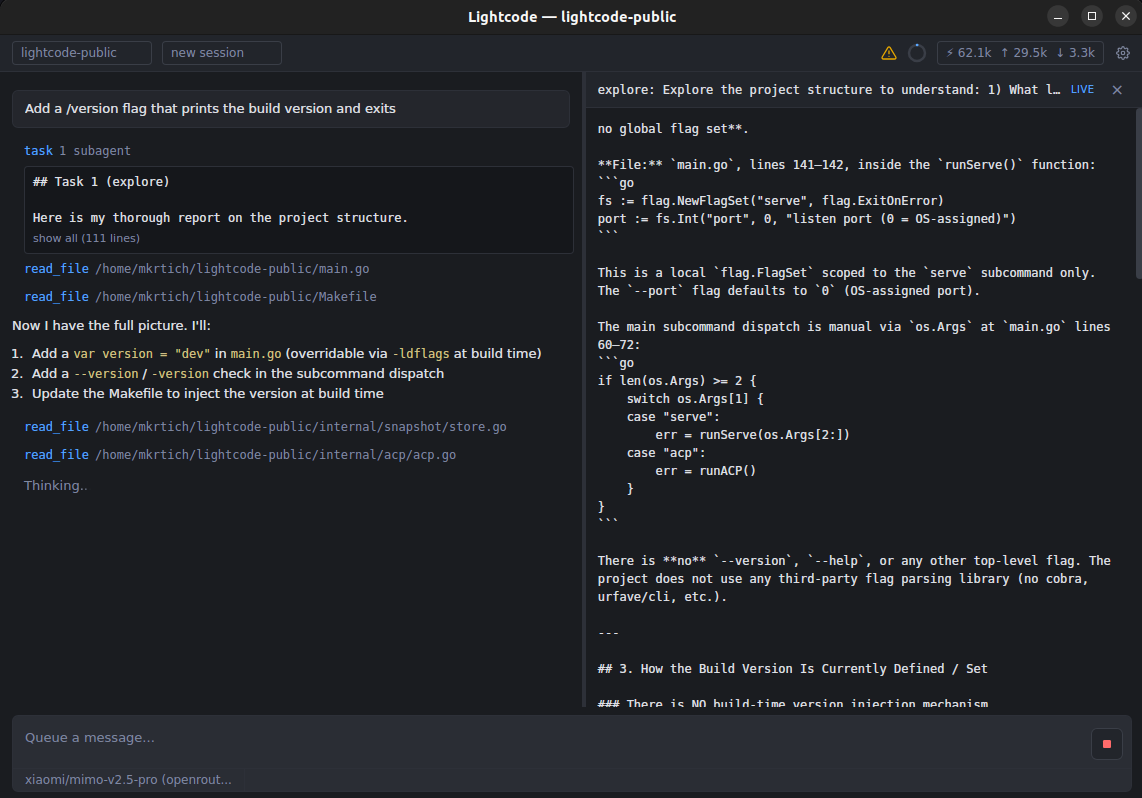
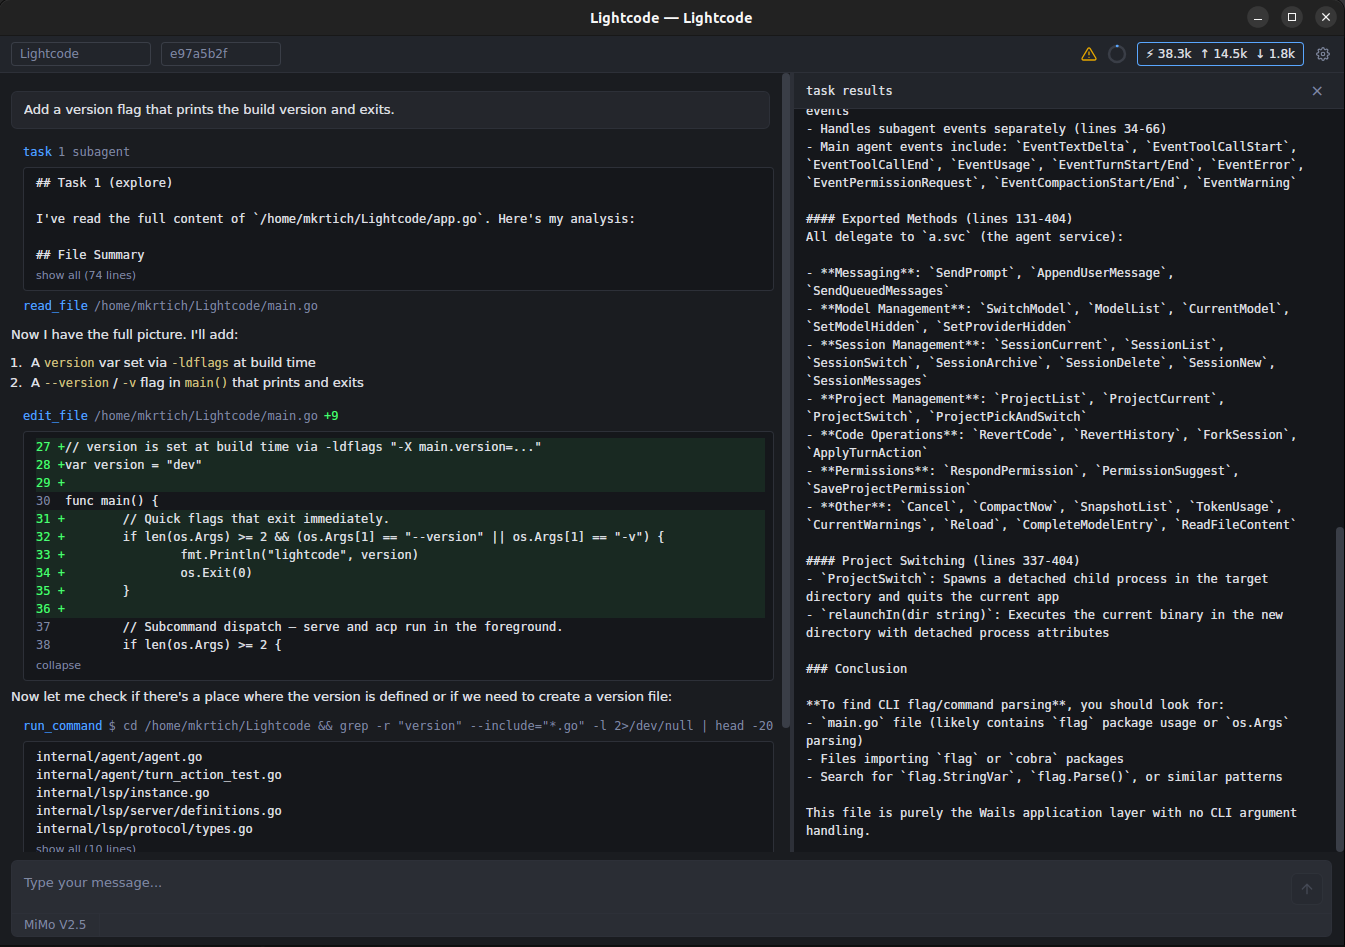
docs: update README and screenshot

diff --git a/README.md b/README.md
@@ -29,7 +29,9 @@
 
 ### Features
 
-**Providers** — OpenAI, OpenRouter, MiniMax, Z.ai, Ollama, DeepSeek, Mistral, Groq, Google Gemini, llama.cpp, and anything else that speaks the OpenAI API schema. Configure N providers simultaneously, switch mid-session.
+**Providers** — Bundled metadata for OpenAI, OpenRouter, Alibaba/Qwen, Google Gemini, xAI/Grok, DeepSeek, Moonshot/Kimi, Mistral, MiniMax, Z.ai, Together, Groq, Fireworks, and Xiaomi MiMo. Add Ollama, llama.cpp, or any other OpenAI-compatible endpoint through config. Configure N providers simultaneously, switch mid-session.
+
+Lightcode uses the OpenAI Chat Completions shape with streaming and tool calls. Provider compatibility still varies: some OpenAI-compatible models stream text correctly but do not reliably support streamed tool calls. Test a new provider/model with a real tool call before relying on it.
 
 **Tools** — `read_file` · `write_file` · `edit_file` · `run_command` · `execute_pending` · `process` · `sleep` · `save_memory` · `search_memory` · `search_history` · `diagnostics` · `workspace_symbol` · `task`
 
@@ -39,7 +41,7 @@
 
 **Context compaction** — Automatic pruning and summarization when approaching the context window limit.
 
-**LSP** — Diagnostics and symbol search across Go, Python, TypeScript/JS, Rust, C/C++, C#. Auto-detected, auto-installed.
+**LSP** — Diagnostics and symbol search across Go, Python, TypeScript/JS, Rust, C/C++, C#. Auto-detected; servers auto-installed where supported.
 
 **Subagents** — Delegate tasks to concurrent LLM loops with scoped tools and independent context.
 
@@ -55,6 +57,8 @@
 - Node.js
 - [Wails v2](https://wails.io/docs/gettingstarted/installation)
 - Git LFS
+
+Linux is the primary tested and documented platform today. Wails can target macOS and Windows too, but this README documents the Linux build/run path for now.
 
 <details>
 <summary>Linux: install WebKitGTK</summary>
@@ -82,29 +86,82 @@ wails build
 
 Binary: `build/bin/lightcode`
 
+Optional install:
+
+```bash
+install -Dm755 build/bin/lightcode ~/.local/bin/lightcode
+```
+
 #### Configure
 
-Lightcode ships with no providers. On first run it creates `~/.lightcode/config.json` with an empty skeleton. API keys live in environment variables (or `~/.lightcode/.env`), referenced by name:
+Lightcode ships with bundled provider metadata, but no credentials and no preset default model. On first run it creates `~/.lightcode/config.json` with an empty skeleton. API keys live in environment variables (or `~/.lightcode/.env`), referenced by name from provider `transport.api_key_env` fields:
 
 ```json
 {
   "providers": {
     "openrouter": {
-      "base_url": "https://openrouter.ai/api/v1",
-      "api_key_env": "OPENROUTER_API_KEY",
-      "models": ["openai/gpt-5.5", "xiaomi/mimo-v2.5-pro"]
+      "transport": {
+        "headers": {
+          "HTTP-Referer": "https://my-app.example"
+        }
+      },
+      "models": {
+        "z-ai/glm-5.1": {
+          "name": "Z.ai GLM-5.1"
+        }
+      }
     },
-    "llama-cpp": {
-      "base_url": "http://localhost:8080/v1",
-      "api_key_env": "",
-      "models": ["qwen3.6-35b-a3b"]
+    "ollama": {
+      "transport": {
+        "base_url": "http://localhost:11434/v1",
+        "api_key_env": ""
+      },
+      "models": {
+        "qwen3.6:27b": {
+          "name": "Qwen3.6 27B",
+          "context_window": 262144,
+          "max_output_tokens": 65536
+        }
+      }
     }
   },
-  "default_model": { "provider": "openrouter", "model": "openai/gpt-5.5" }
+  "default_model": "openrouter/z-ai/glm-5.1"
 }
 ```
 
+Example key setup:
+
+```bash
+mkdir -p ~/.lightcode
+printf 'OPENROUTER_API_KEY=...\n' >> ~/.lightcode/.env
+```
+
+Shell-exported environment variables take precedence over values in `~/.lightcode/.env`.
+
+#### Permissions
+
+Global permissions live in `~/.lightcode/config.json`. Project permissions are saved per project when you choose "Allow for project" in a permission prompt.
+
+```json
+{
+  "permissions": {
+    "allow": ["read_file(/src/**)", "run_command(git status *)"],
+    "deny": ["read_file(**/.env)", "write_file(**/.env)"],
+    "ask": ["run_command(git push *)"]
+  }
+}
+```
+
+Path prefixes in permission rules:
+
+- `/foo` — project-relative
+- `~/foo` — home-relative
+- `//foo` — absolute
+- no matching rule — ask
+
 #### Run
+
+Run Lightcode from the project directory you want it to work on:
 
 ```bash
 lightcode                       # Desktop GUI
@@ -112,6 +169,28 @@ lightcode cli                   # Terminal REPL
 lightcode serve --port 8080     # HTTP+SSE daemon
 lightcode acp                   # JSON-RPC over stdio
 ```
+
+Useful CLI commands:
+
+- `/model` — switch model
+- `/session` — list or switch sessions
+- `/project` — switch project
+- `/revert` — revert code, revert history, or fork
+- `/fork` — open the fork/revert menu
+- `/context` — show token usage
+- `/compact` — compact context now
+- `/copy` — copy the last assistant response
+- `/exit` — exit
+
+`lightcode serve` writes a daemon lockfile under `~/.lightcode/daemon/` containing the port and token. HTTP clients use Bearer auth; ACP clients use newline-delimited JSON-RPC over stdio.
+
+#### Data locations
+
+- `~/.lightcode/config.json` — user config
+- `~/.lightcode/.env` — local API keys
+- `~/.lightcode/projects/` — project metadata, sessions, snapshots, memories, and project permissions
+- `~/.lightcode/cache/` — discovery and runtime caches
+- `~/.lightcode/daemon/` — localhost daemon lockfiles
 
 ---
 
